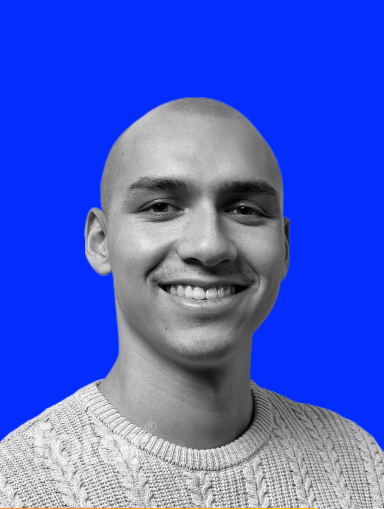
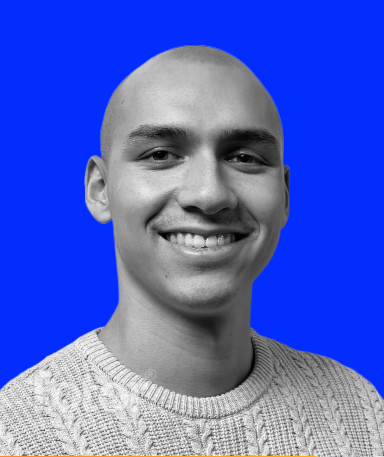
completed filling out the overall structure of my home section, as well as providing an image, text and social media links

diff --git a/styles.scss b/styles.scss
@@ -1,7 +1,7 @@
-/* GOOGLE FONTS */
+/* GOOGLE FONT */
 @import url('https://fonts.googleapis.com/css2?family=Poppins:wght@400;500;600;700&display=swap');
 
-/* The '*' selector selects all elements in HTML file. Declaring margin, padding and box-sizing to get rid of default values*/
+/* The '*' selector selects all elements in an HTML file. Declaring margin, padding and box-sizing to get rid of default values*/
 * {
     font-family: 'Poppins', sans-serif;
     margin: 0;
@@ -9,7 +9,10 @@
     box-sizing:border-box;
 }
 
-/* PRE-SET VARIABLES */
+/*For this scss file, I have decided to use the BEM notation to structure my properties. BEM stands for Block Element Modifier. It is an efficient way to change and edit CSS properties at a large scale. */
+
+/* PRE-SET SCSS VARIABLES */
+$header-color: rgb(7, 14, 29);
 $primary-background-color: rgb(5, 19, 50);
 $primary-text-color: #ffffff;
 $section-header-color: #222321;
@@ -20,8 +23,9 @@ $third-text-color: rgb(23, 46, 96);
 /*HEADER SECTION*/
 header {
     width: 100%;
-    background-color: $primary-background-color;
+    background-color: $header-color;
     position: fixed;
+    z-index: 10; //placing header on top, to avoid other elements overlapping it when scrolling.
 }
 
 .nav {
@@ -68,6 +72,7 @@ header {
 
         &:hover {
             color: $secondary-text-color;
+            background-color: $primary-background-color;
             font-size: 1.2em;
             transition: 0.3s;
         }
@@ -84,4 +89,92 @@ header {
 }
 
 /* HOME SECTION */
+.home {
+    min-height: 800px;
+    display: flex;
+    align-items: center;
+    justify-content: center; //these last two properties center the entire home section on the middle of the page.
+    padding-top: 20px;
 
+    &__bgcolor {
+        background-color: $primary-background-color;
+    }
+
+    &__content {
+        max-width: 600px; //hard-coding the width.
+        width: 100%;
+        margin: auto; //centering
+        display: flex;
+        flex-direction: column;
+        align-items: center;
+        justify-content: center;
+        position: relative;
+        margin-top: 60px;
+    }
+
+    &__img {
+        width: 350px;
+        height: 350px;
+        border-radius: 50%; //making the picture into a circle instead of a rectangle.
+        overflow: hidden;
+        margin: auto;
+        transform: scale(0.7,0.7);
+
+        &--photo {
+            object-position: center;
+            object-fit: cover;
+        }
+    }
+
+    &__info {
+        display: flex;
+        flex-direction: column;
+        align-items: center;
+        justify-content: center;
+        text-align: center;
+    }
+
+    &__header {
+        font-size: 60px;
+        font-weight: 500;
+
+        &--white {
+            color: $primary-text-color;
+        }
+        &--blue {
+            color: $secondary-text-color;
+        }
+    }
+
+    &__para {
+        font-size: 20px;
+        margin-top: 15px;
+
+        &--white {
+            color: $primary-text-color;
+        }
+        &--blue {
+            color: $secondary-text-color;
+        }
+    }
+
+    &__social {
+        margin-top: 20px;
+        display: flex;
+        align-items: center;
+        column-gap: 20px;
+
+        &--links {
+            font-size: 50px;
+            color: $primary-text-color;
+            padding: 10px;
+            border-radius: 50%;
+            background-color: $third-text-color;
+
+            &:hover {
+                background-color: $secondary-text-color;
+                transition: 0.3s;
+            }
+        }
+    }
+}

diff --git a/output.css b/output.css
@@ -1,6 +1,6 @@
-/* GOOGLE FONTS */
+/* GOOGLE FONT */
 @import url("https://fonts.googleapis.com/css2?family=Poppins:wght@400;500;600;700&display=swap");
-/* The '*' selector selects all elements in HTML file. Declaring margin, padding and box-sizing to get rid of default values*/
+/* The '*' selector selects all elements in an HTML file. Declaring margin, padding and box-sizing to get rid of default values*/
 * {
   font-family: "Poppins", sans-serif;
   margin: 0;
@@ -8,12 +8,14 @@
   box-sizing: border-box;
 }
 
-/* PRE-SET VARIABLES */
+/*For this scss file, I have decided to use the BEM notation to structure my properties. BEM stands for Block Element Modifier. It is an efficient way to change and edit CSS properties at a large scale. */
+/* PRE-SET SCSS VARIABLES */
 /*HEADER SECTION*/
 header {
   width: 100%;
-  background-color: rgb(5, 19, 50);
+  background-color: rgb(7, 14, 29);
   position: fixed;
+  z-index: 10;
 }
 
 .nav {
@@ -53,6 +55,7 @@ header {
 }
 .nav__link:hover {
   color: #032dff;
+  background-color: rgb(5, 19, 50);
   font-size: 1.2em;
   transition: 0.3s;
 }
@@ -66,3 +69,80 @@ header {
 }
 
 /* HOME SECTION */
+.home {
+  min-height: 800px;
+  display: flex;
+  align-items: center;
+  justify-content: center;
+  padding-top: 20px;
+}
+.home__bgcolor {
+  background-color: rgb(5, 19, 50);
+}
+.home__content {
+  max-width: 600px;
+  width: 100%;
+  margin: auto;
+  display: flex;
+  flex-direction: column;
+  align-items: center;
+  justify-content: center;
+  position: relative;
+  margin-top: 60px;
+}
+.home__img {
+  width: 350px;
+  height: 350px;
+  border-radius: 50%;
+  overflow: hidden;
+  margin: auto;
+  transform: scale(0.7, 0.7);
+}
+.home__img--photo {
+  object-position: center;
+  object-fit: cover;
+}
+.home__info {
+  display: flex;
+  flex-direction: column;
+  align-items: center;
+  justify-content: center;
+  text-align: center;
+}
+.home__header {
+  font-size: 60px;
+  font-weight: 500;
+}
+.home__header--white {
+  color: #ffffff;
+}
+.home__header--blue {
+  color: #032dff;
+}
+.home__para {
+  font-size: 20px;
+  margin-top: 15px;
+}
+.home__para--white {
+  color: #ffffff;
+}
+.home__para--blue {
+  color: #032dff;
+}
+.home__social {
+  margin-top: 20px;
+  display: flex;
+  align-items: center;
+  column-gap: 20px;
+}
+.home__social--links {
+  font-size: 50px;
+  color: #ffffff;
+  padding: 10px;
+  border-radius: 50%;
+  background-color: rgb(23, 46, 96);
+}
+.home__social--links:hover {
+  background-color: #032dff;
+  transition: 0.3s;
+}

diff --git a/index.html b/index.html
@@ -29,16 +29,16 @@
     </header>
     <!-- HOME SECTION -->
     <section class="home home__bgcolor">
-        <div class="home-content">
-            <div class="home-img">
-                <img src="./home-portrait.PNG" alt="Portrait of me!">
+        <div class="home__content">
+            <div class="home__img">
+                <img class="home__img--photo" src="./home-portrait1.PNG" alt="Portrait of me!">
             </div>
-            <div class="home__text">
-                <h1 class="home__header">Hi! I'm <span class="home__header--color">Tim.</span></h1>
-                <p class="home__para">I'm a highly motivated <span class="home__header--color">software engineer</span> with a hunger to learn. Here's a little bit more about me.</p>
-                <div class="social__links">
-                    <a href="#"><i class='bx bxl-github'></i></a>
-                    <a href="#"><i class='bx bxl-linkedin-square'></i></a>
+            <div class="home__info">
+                <h1 class="home__header home__header--white">Hi! I'm <span class="home__header--blue">Tim.</span></h1>
+                <p class="home__para home__para--white">I'm a highly motivated <span class="home__para--blue">software engineer</span> with a strong desire to learn. Here's a little bit more about me.</p>
+                <div class="home__social">
+                    <a href="#"><i class='home__social--links bx bxl-github'></i></a>
+                    <a href="#"><i class='home__social--links bx bxl-linkedin-square'></i></a>
                 </div>
             </div>
         </div>
